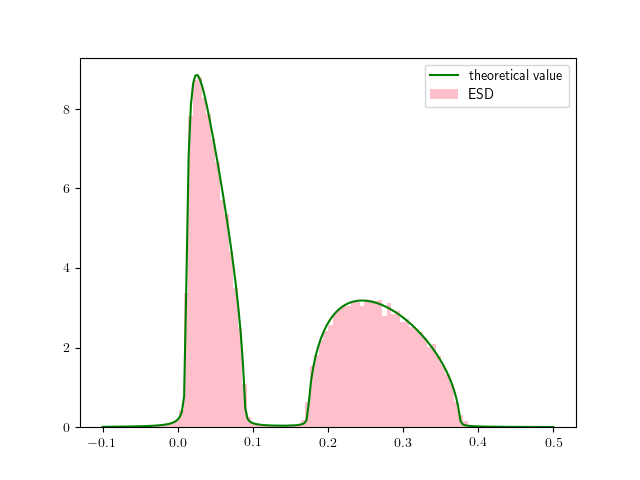
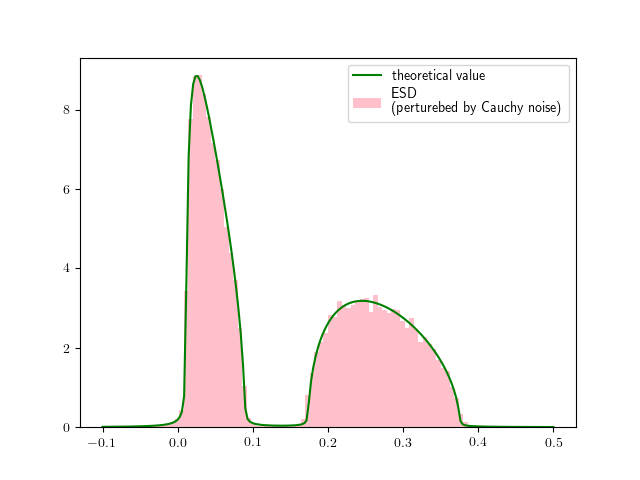
replace caption

diff --git a/demo_cauchy.py b/demo_cauchy.py
@@ -40,7 +40,7 @@ def plot_density(A, sigma, scale=1e-2, min_x=-10, max_x=100, num_pt=200,\
     ### Plot histgram of ESD
     if num_shot>0:
         sample = true_sc.ESD(num_shot=num_shot,dim_cauchy_vec=dim_cauchy_vec)
-        plt.hist(sample, range=(min_x, max_x), bins=100, normed=True, label="ESD",color="pink")
+        plt.hist(sample, range=(min_x, max_x), bins=100, normed=True, label="ESD \n (perturebed by Cauchy noise)",color="pink")
 
     plt.plot(x_array, true_density, label="theoretical value", color="green")
 

diff --git a/demo_plots.py b/demo_plots.py
@@ -65,13 +65,13 @@ num_shot=num_shot,jobname="2-5")
 
 dim = 64
 p_dim = dim
-scale = 1e-3
+scale = 1e-2
 sigma = 0.1
-min_x = -0.25
-max_x = 1
+min_x = -1
+max_x = 12
 a = np.arange(64) + 1
-diag_A = a/80
+diag_A = a/20
 A = rectangular_diag(diag_A,p_dim, dim)
-num_shot = 200
+num_shot = 400
 plot_density(A, sigma,scale, min_x, max_x, \
 num_shot=num_shot,jobname="64")
